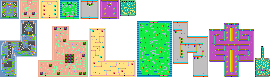
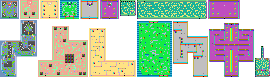
[ADD] BOSS LEVEL

Changed region(s): [[0.4396, 0.0, 0.8791, 0.2597]]

diff --git a/opengltest/MapLoader.cpp b/opengltest/MapLoader.cpp
@@ -28,6 +28,9 @@
 
 #define MAP_ID_7_POSITION {255,46,15,31} //Tutorial
 
+#define MAP_ID_9_POSITION {137,0,70,19} //Boss Path
+#define MAP_ID_10_POSITION {208,0,32,19} //Boss Room
+
 struct Rect
 {
 	float x, y, w, h;
